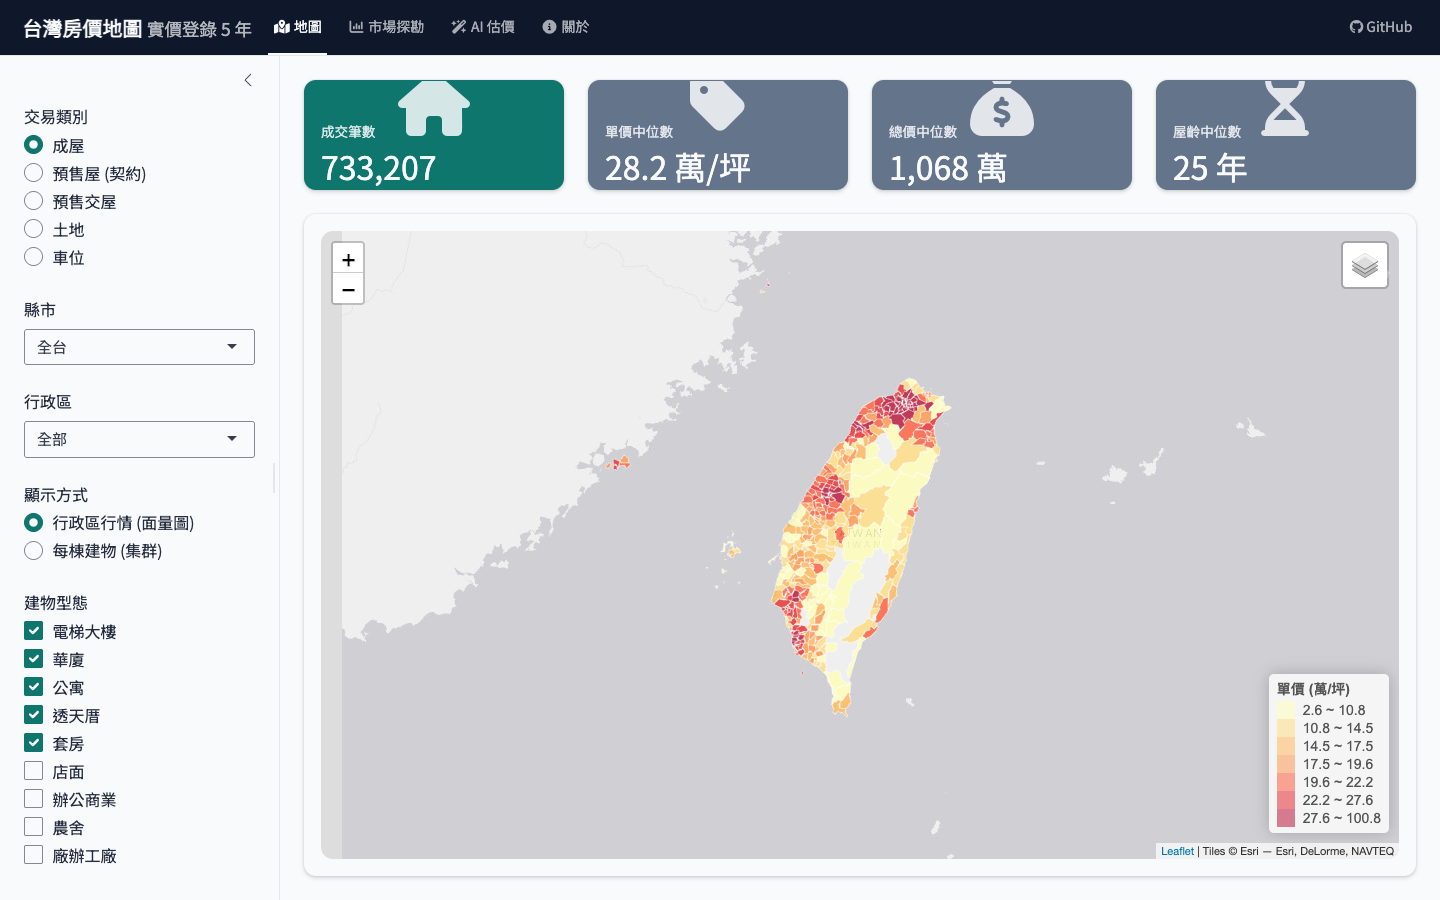
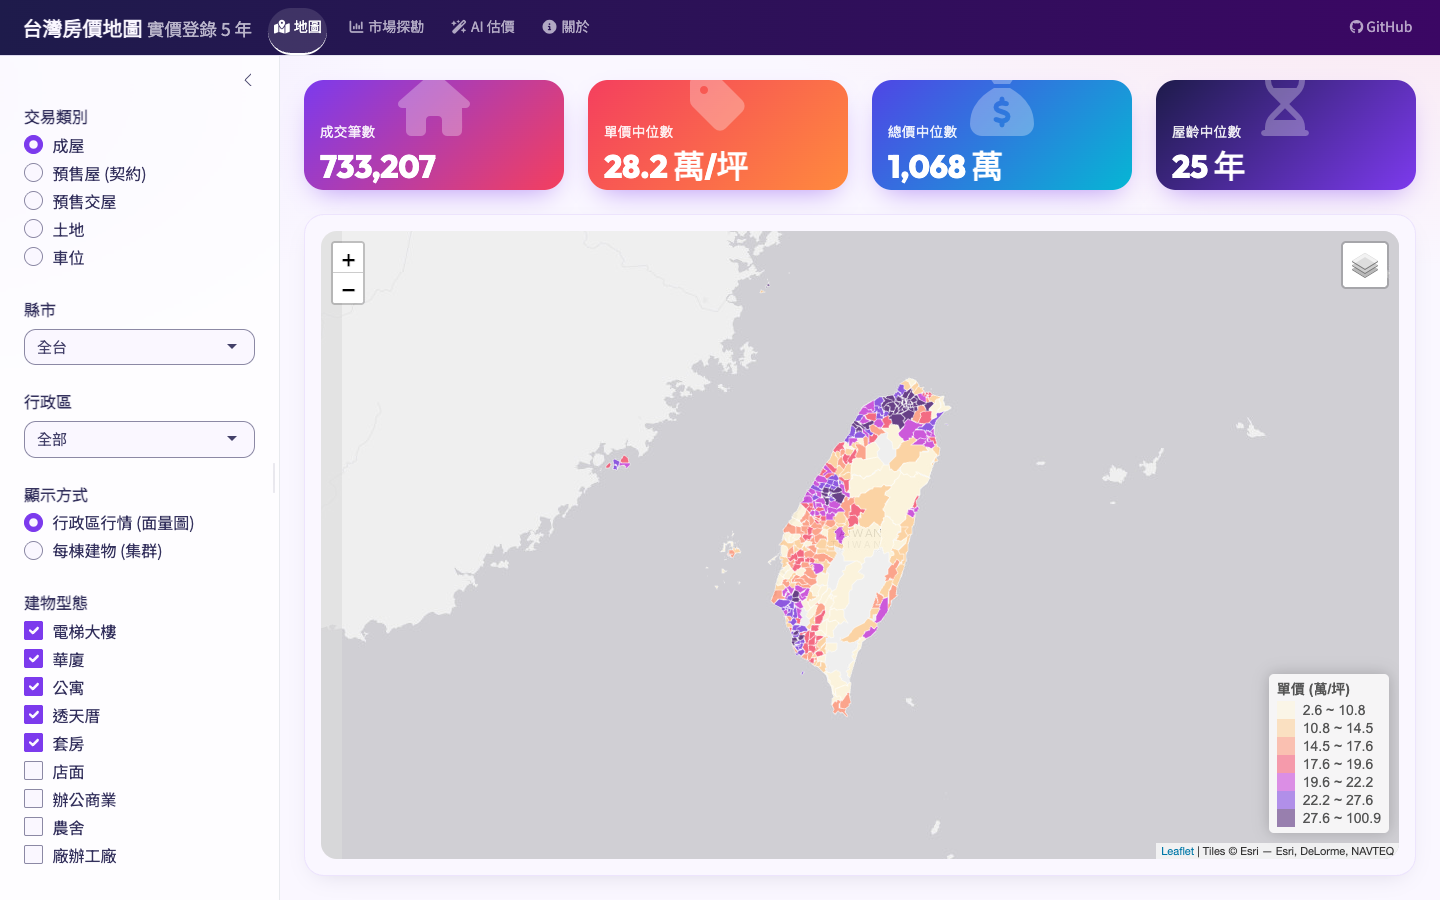
介面改版：電光紫 × 珊瑚粉配色、漸層數值卡片、圓角與微動畫
- brand / type_colors 集中管理配色，bs_theme、圖表、地圖共用
- 導覽列漸層與彩色底線、漸層數值卡片 (依順序四種)、漸層膠囊按鈕、圓角卡片與柔和陰影
- 數字改用 Outfit 字體；地圖色階改為淡黃 → 珊瑚 → 洋紅 → 深紫
- 圖表座標軸改為「權狀坪數」；README 截圖更新；學習筆記第 19 章

diff --git a/docs/學習筆記.md b/docs/學習筆記.md
@@ -1232,3 +1232,20 @@ ETL 紀錄裡有 `There were 19 warnings`。追查後發現，預售屋 b 檔有
 | C 訓練時排除 | 13.13% | 8.61% | 11.47% |
 
 → 採用 A。模型已經學會「車位不明 → 單價偏低多少」；B 的估算本身也有誤差，C 少了 4 成資料。**「看起來比較乾淨」的做法不一定比較準，要用實驗驗證。**
+
+---
+
+# 19. 介面改版：電光紫 × 珊瑚粉 (2026-10-28)
+
+**原則**：漸層、動畫只用在「重點」(數值卡片、主要按鈕、導覽列)；圖表、表格維持白底，數據才好讀。
+
+| 做法 | 技術 |
+|---|---|
+| 顏色集中管理 | `app.R` 開頭的 `brand` (品牌色) 和 `type_colors` (建物型態色)；`bs_theme()` 讀 `brand`，圖表、地圖也引用同一組 → 改色只要改一處 |
+| 數值卡片漸層 | CSS `linear-gradient`；bslib 把每張卡片包在 `.bslib-grid-item` 裡，所以用 `.bslib-grid > .bslib-grid-item:nth-child(4n+1)` 依順序配色 (第一版寫 `.bslib-value-box:nth-child()` 沒效果：每張卡片都是它容器裡的第 1 個) |
+| 微動畫 | `transition` + `:hover { transform: translateY(-3px) }` |
+| 數字字體 | Google Fonts 的 Outfit (只有英文數字，中文自動退回 Noto Sans TC)；用 `<link>` 載入 (第一版用 `sass_import()` 會找不到檔案，網站直接當掉) |
+| 地圖色階 | 自訂 `map_ramp`：淡黃 → 珊瑚 → 洋紅 → 深紫，和品牌同色系；色階要「由淺到深」，明度單調變化，色盲也看得出高低 |
+| 圖表配色 | 每種型態色相差很多 (紫、青、琥珀、珊瑚粉…)，一眼分得出來 |
+
+截圖用 `docs/make_screenshots.R` 自動產生 (RE_PROJECT_PATH 指到暫存資料夾可以先預覽，不覆蓋 README 的圖)。
